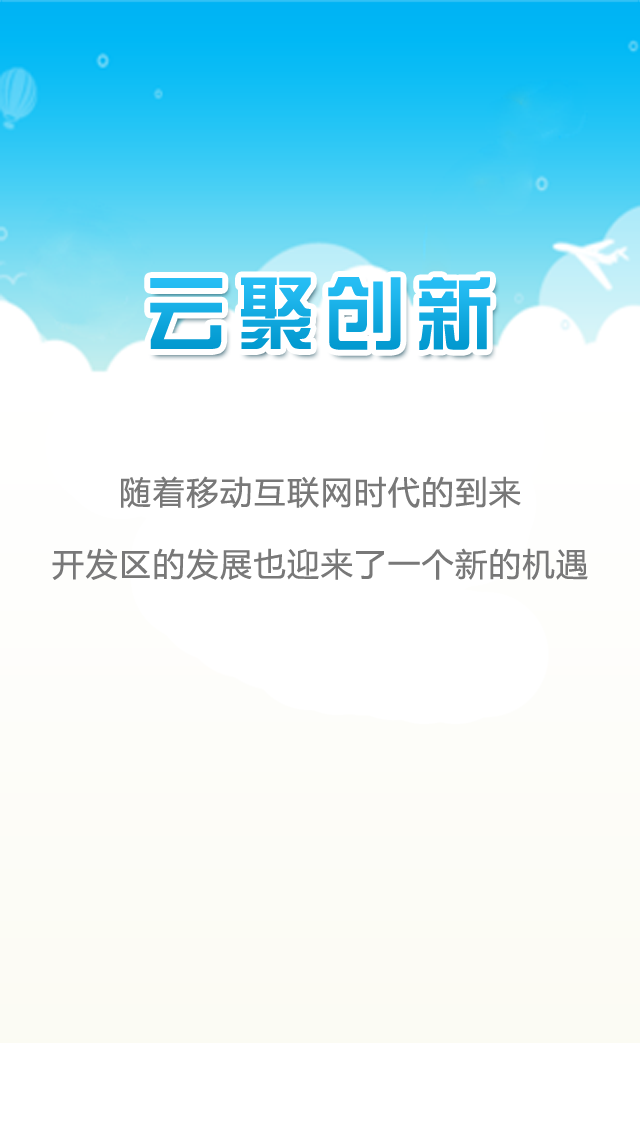
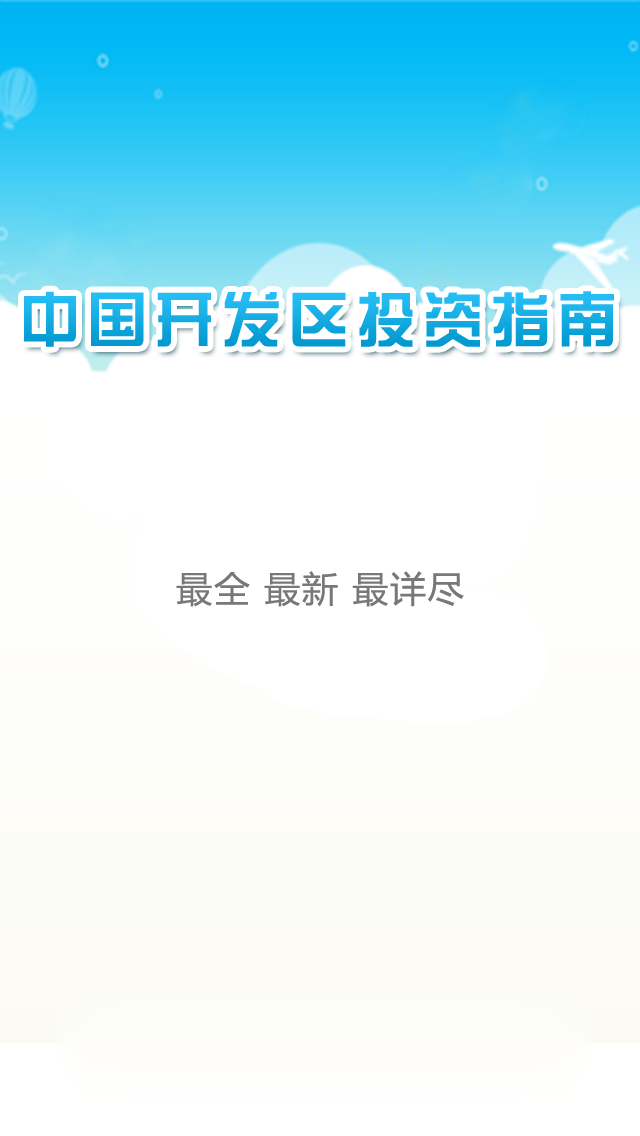
图标 图片等修改

Changed region(s): [[0.0938, 0.4005, 0.9375, 0.5546], [0.0312, 0.2157, 0.9688, 0.3389]]

diff --git a/DiscussViewController.m b/DiscussViewController.m
@@ -27,7 +27,7 @@
     if (self) {
         AppDelegate*mydelegate = [UIApplication sharedApplication].delegate;
         if ([mydelegate.language isEqualToString:@"china"]) {
-             self.title = @"北京科润创想信息技术有限公司";
+             self.title = @"科润创想";
         }
         else
         {
@@ -114,7 +114,11 @@
         [button3 setTitle:@"Common investors" forState:UIControlStateNormal];
         [button2 setTitle:@"Co-operation" forState:UIControlStateNormal];
         [button1 setTitle:@"KerunInnovation" forState:UIControlStateNormal];
-        [buttonFor2D setTitle:@"2D bar code" forState:UIControlStateNormal];
+//        [buttonFor2D setTitle:@"2D bar code" forState:UIControlStateNormal];
+        UILabel *lable = [[UILabel alloc] initWithFrame:CGRectMake(10, 5, 200, 35)];
+        lable.text = @"2D bar code";
+        lable.backgroundColor = [UIColor clearColor];
+        [buttonFor2D addSubview:lable];
 
     }
     else
@@ -122,7 +126,7 @@
         [button4 setTitle:@"去点评一下" forState:UIControlStateNormal];
         [button3 setTitle:@"常见机构投资者" forState:UIControlStateNormal];
         [button2 setTitle:@"合作单位" forState:UIControlStateNormal];
-        [button1 setTitle:@"北京科润创想信息技术有限公司" forState:UIControlStateNormal];
+        [button1 setTitle:@"科润创想" forState:UIControlStateNormal];
         [buttonFor2D setTitle:@"二维码" forState:UIControlStateNormal];
     }
     
@@ -146,6 +150,12 @@
         buttonFor2D.frame = CGRectMake(10,342 - hight, 300, 37);
 
     }
+    
+    button1.titleLabel.textAlignment = UITextAlignmentLeft;
+    button2.titleLabel.textAlignment = UITextAlignmentLeft;
+    button3.titleLabel.textAlignment = UITextAlignmentLeft;
+    button4.titleLabel.textAlignment = UITextAlignmentLeft;
+    buttonFor2D.titleLabel.textAlignment = UITextAlignmentLeft;
     
     [self.view addSubview:button1];
     [self.view addSubview:button2];

diff --git a/FirstViewController.m b/FirstViewController.m
@@ -476,7 +476,7 @@
     [self maketitle];
     if ([mydelegate.language isEqualToString:@"china"]) {
         [mydelegate.naviga2 setTitle:@"分类"];
-        [mydelegate.naviga3 setTitle:@"北京科润创想信息技术有限公司"];
+        [mydelegate.naviga3 setTitle:@"科润创想"];
         mydelegate.classview.title = @"分类";
         mydelegate.disview.title = @"关于";
     }
